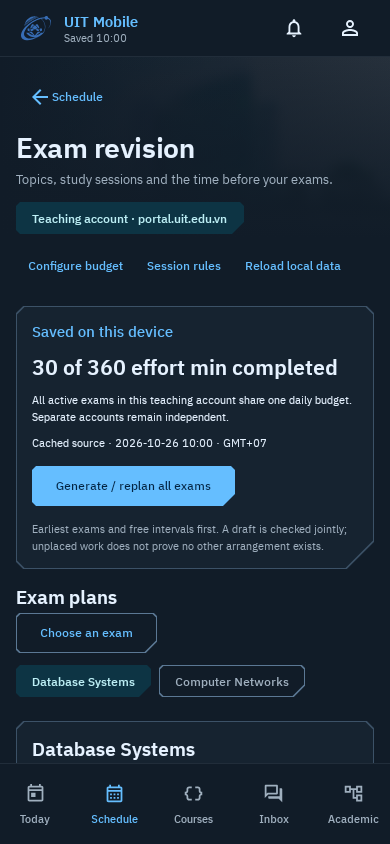
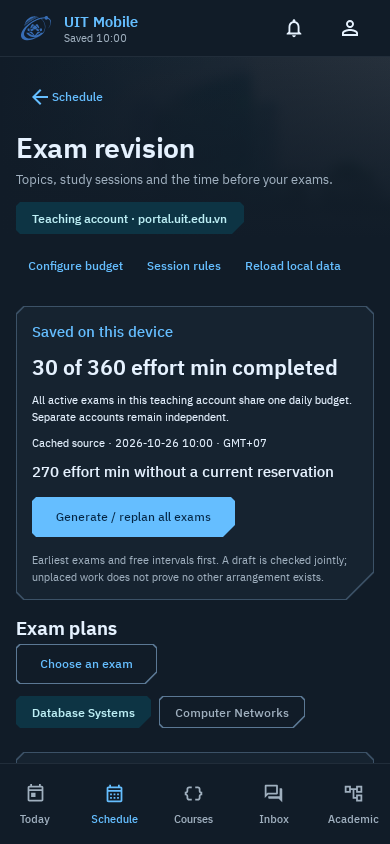
fix(schedule): keep unreserved revision effort visible
Derive unreserved effort from saved topic totals, reported completion and current reservations. Keep partially scheduled and expired work visible after saving, with a Compose regression assertion and refreshed phone captures.

Validation: all six revision Compose tests passed; updated 390dp and Vietnamese 412dp renders inspected.

Changed region(s): [[0.0308, 0.5545, 0.8923, 0.8934], [0.6769, 0.5545, 0.8615, 0.5853]]

diff --git a/feature/schedule/src/main/kotlin/vn/edu/uit/mobile/schedule/RevisionScreen.kt b/feature/schedule/src/main/kotlin/vn/edu/uit/mobile/schedule/RevisionScreen.kt
@@ -73,6 +73,12 @@ fun RevisionContent(
     val plan = state.plan
     val owner = state.owner
     val workspace = state.draft?.workspace ?: state.saved
+    val unplaced = workspace.plans.filter { it.active }.flatMap { p ->
+        p.topics.mapNotNull { topic ->
+            val allocated = p.sessions.filter { it.topicId == topic.id && (it.status == RevisionStatus.COMPLETED || it.status == RevisionStatus.PLANNED && it.end > state.now) }.sumOf { it.effort }
+            (topic.minutes - allocated).takeIf { it > 0 }?.let { RevisionUnplaced(p.exam, topic.id, it) }
+        }
+    }
     val busy = state.busy || state.base.busy
     val enabled = !busy && !state.failed && owner != null
     BackHandler(onBack = onBack)
@@ -110,8 +116,8 @@ fun RevisionContent(
                         if (result.issues.any { it != WorkloadIssue.UNKNOWN_END }) InlineNotice(stringResource(R.string.rp_quality), true)
                         if (WorkloadIssue.UNKNOWN_END in result.issues) Text(stringResource(R.string.rp_unknown_end), style = MaterialTheme.typography.bodySmall)
                     }
+                    Text(stringResource(if (state.draft == null) R.string.rp_unreserved else R.string.rp_unplaced, unplaced.sumOf { it.minutes }), style = MaterialTheme.typography.titleMedium)
                     if (state.draft != null) {
-                        Text(stringResource(R.string.rp_unplaced, state.draft.unplaced.sumOf { it.minutes }), style = MaterialTheme.typography.titleMedium)
                         state.draft.problems.forEach { problem -> InlineNotice(revisionProblem(problem), true) }
                         Row {
                             Button(onSaveDraft, enabled = enabled && state.draft.problems.isEmpty(), shape = TechnicalShapes.Control) { Text(stringResource(R.string.rp_save_draft)) }
@@ -165,7 +171,6 @@ fun RevisionContent(
                     }
                 }
             }
-            val unplaced = state.draft?.unplaced.orEmpty()
             if (unplaced.isNotEmpty()) {
                 item {
                     Panel(Modifier.fillMaxWidth()) {

diff --git a/app/src/test/kotlin/vn/edu/uit/mobile/RevisionDesignTest.kt b/app/src/test/kotlin/vn/edu/uit/mobile/RevisionDesignTest.kt
@@ -54,6 +54,7 @@ class RevisionDesignTest {
         var generated = false
         compose.setContent { Frame { RevisionContent(RevisionPreview.state, onGenerate = { generated = true }) } }
         compose.onNodeWithText("30 of 360 effort min completed").assertExists()
+        compose.onNodeWithText("270 effort min without a current reservation").assertExists()
         compose.onNodeWithText("Save draft on device").assertDoesNotExist()
         capture("revision-overview-390-phone")
         compose.onNodeWithText("Generate / replan all exams").performScrollTo().performClick()

diff --git a/docs/EXAM-REVISION.md b/docs/EXAM-REVISION.md
@@ -27,6 +27,9 @@ The algorithm constructs sessions together and validates their shared constraint
 It is a heuristic, not an optimal scheduler: unplaced work does not prove that no
 alternative arrangement exists. A partial valid draft can be saved, retaining its
 unplaced topic effort for the next attempt. No academic completion is inferred.
+Saved plans continue to show effort without a current reservation, including work
+whose session has expired without a completion report. Recorded future reservations
+are not a guarantee against later source changes; inspect conflicts and replan.
 
 A final topic remainder shorter than the minimum reserves a full minimum-length
 session, but credits only its actual entered effort. For example, 20 minutes of
